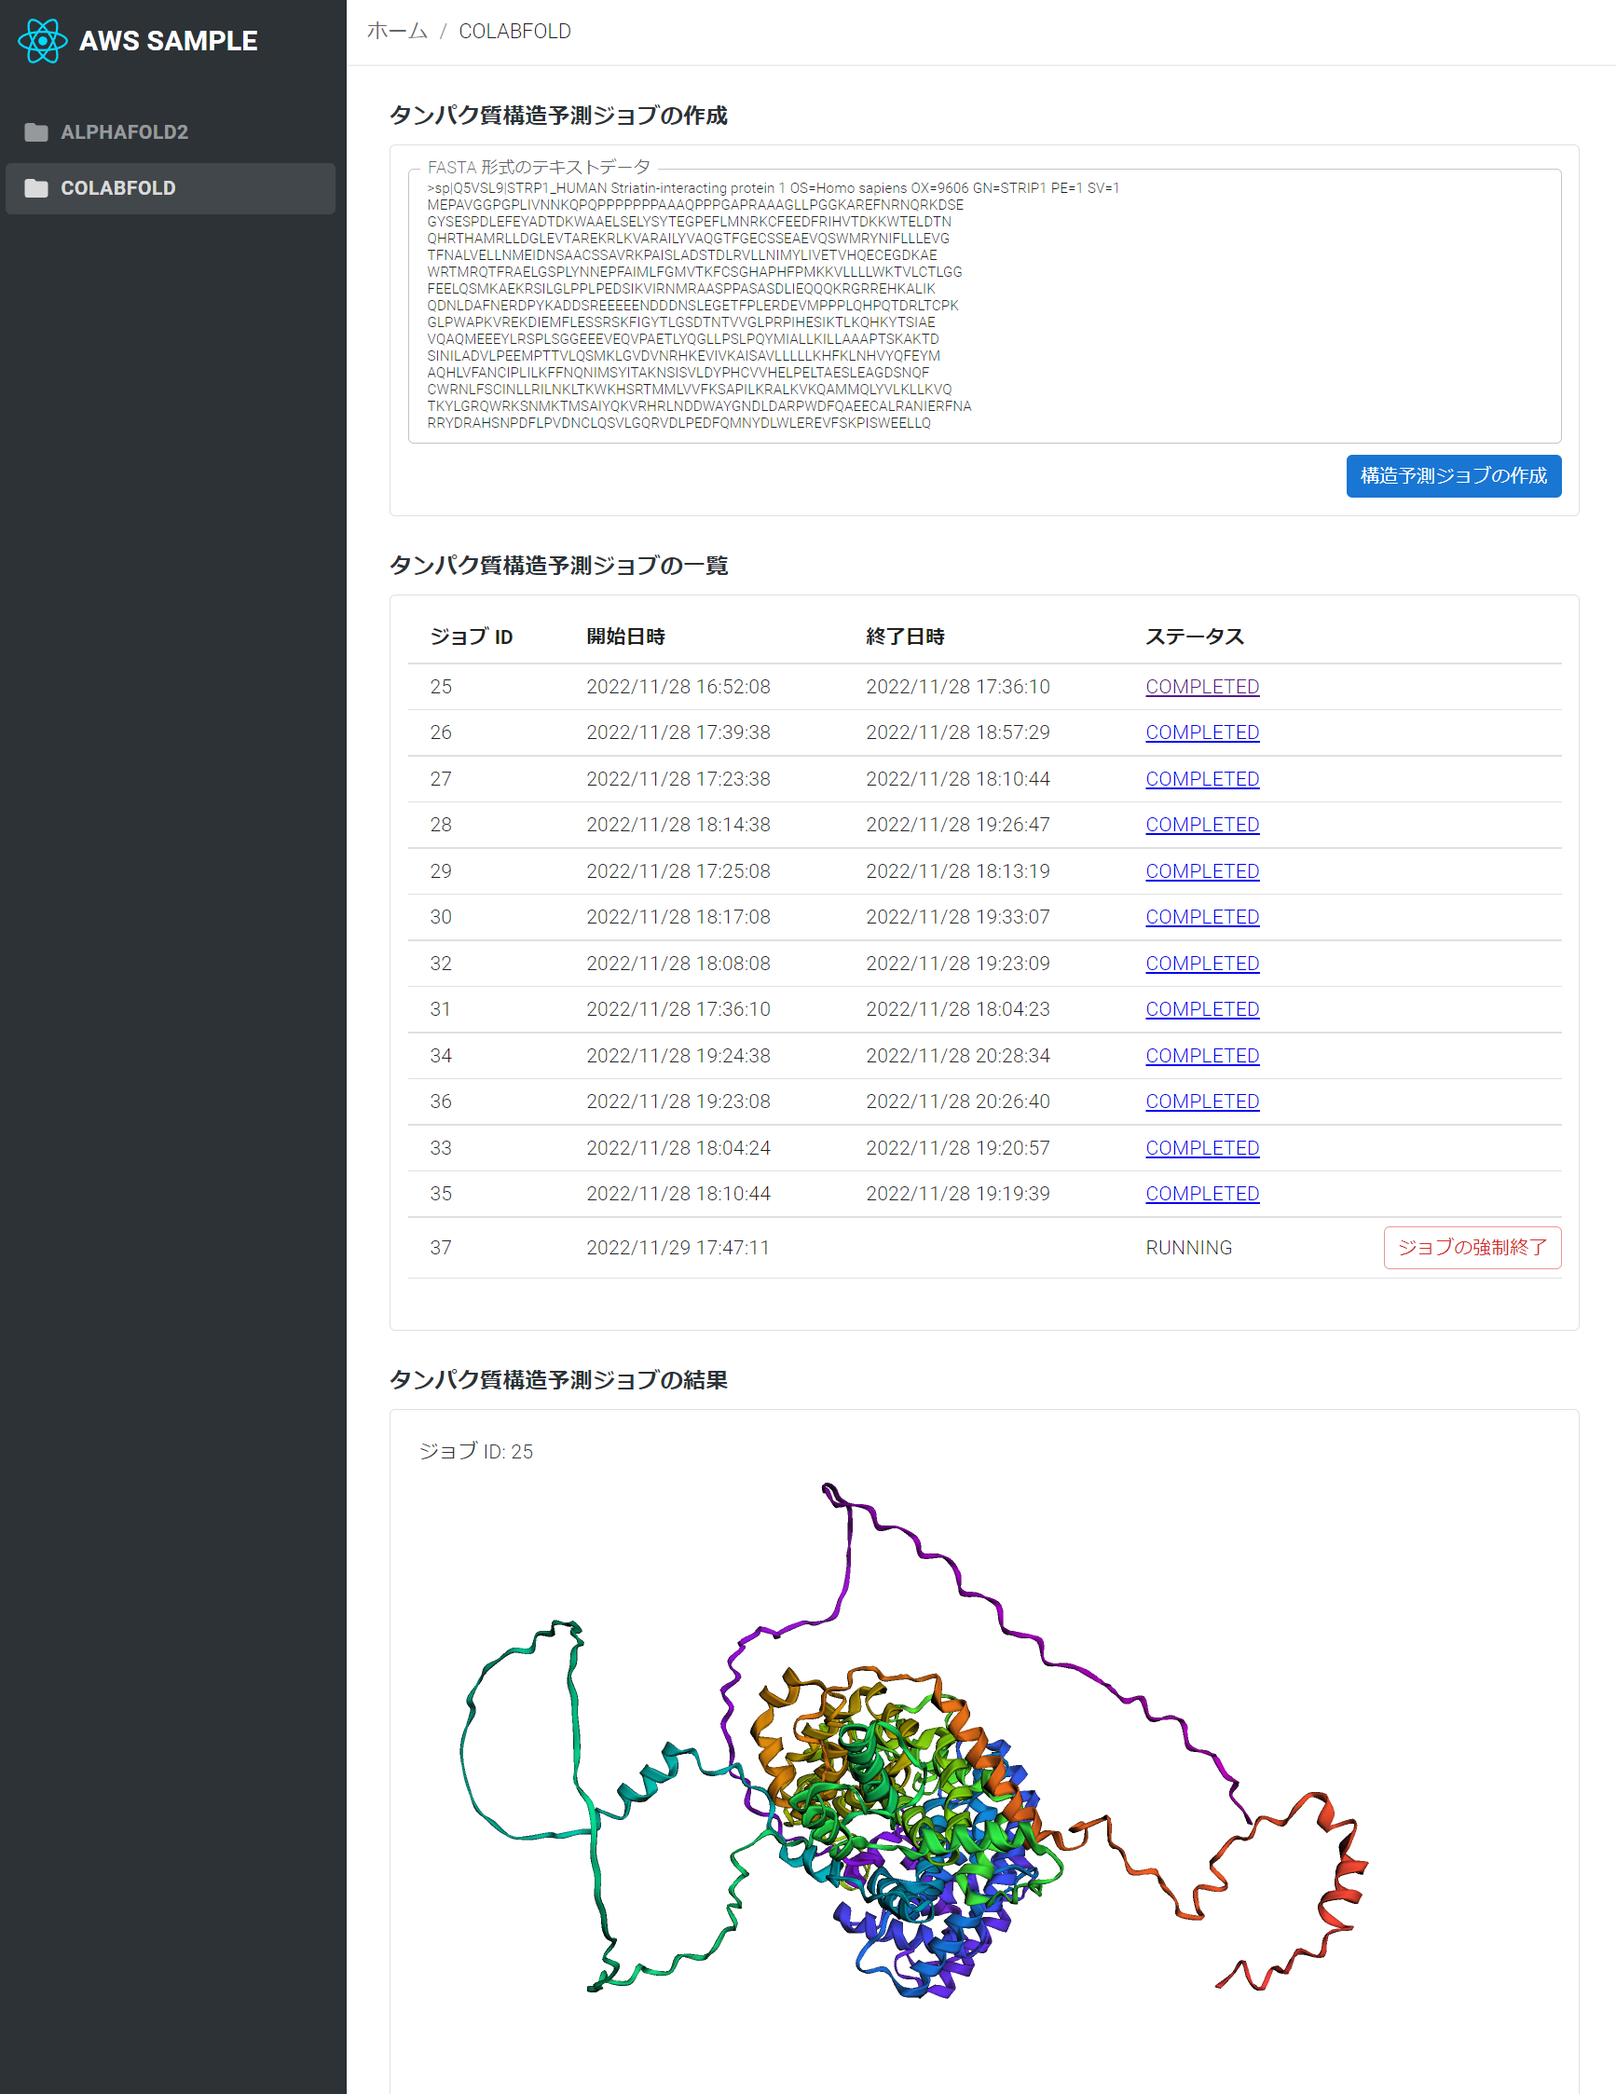
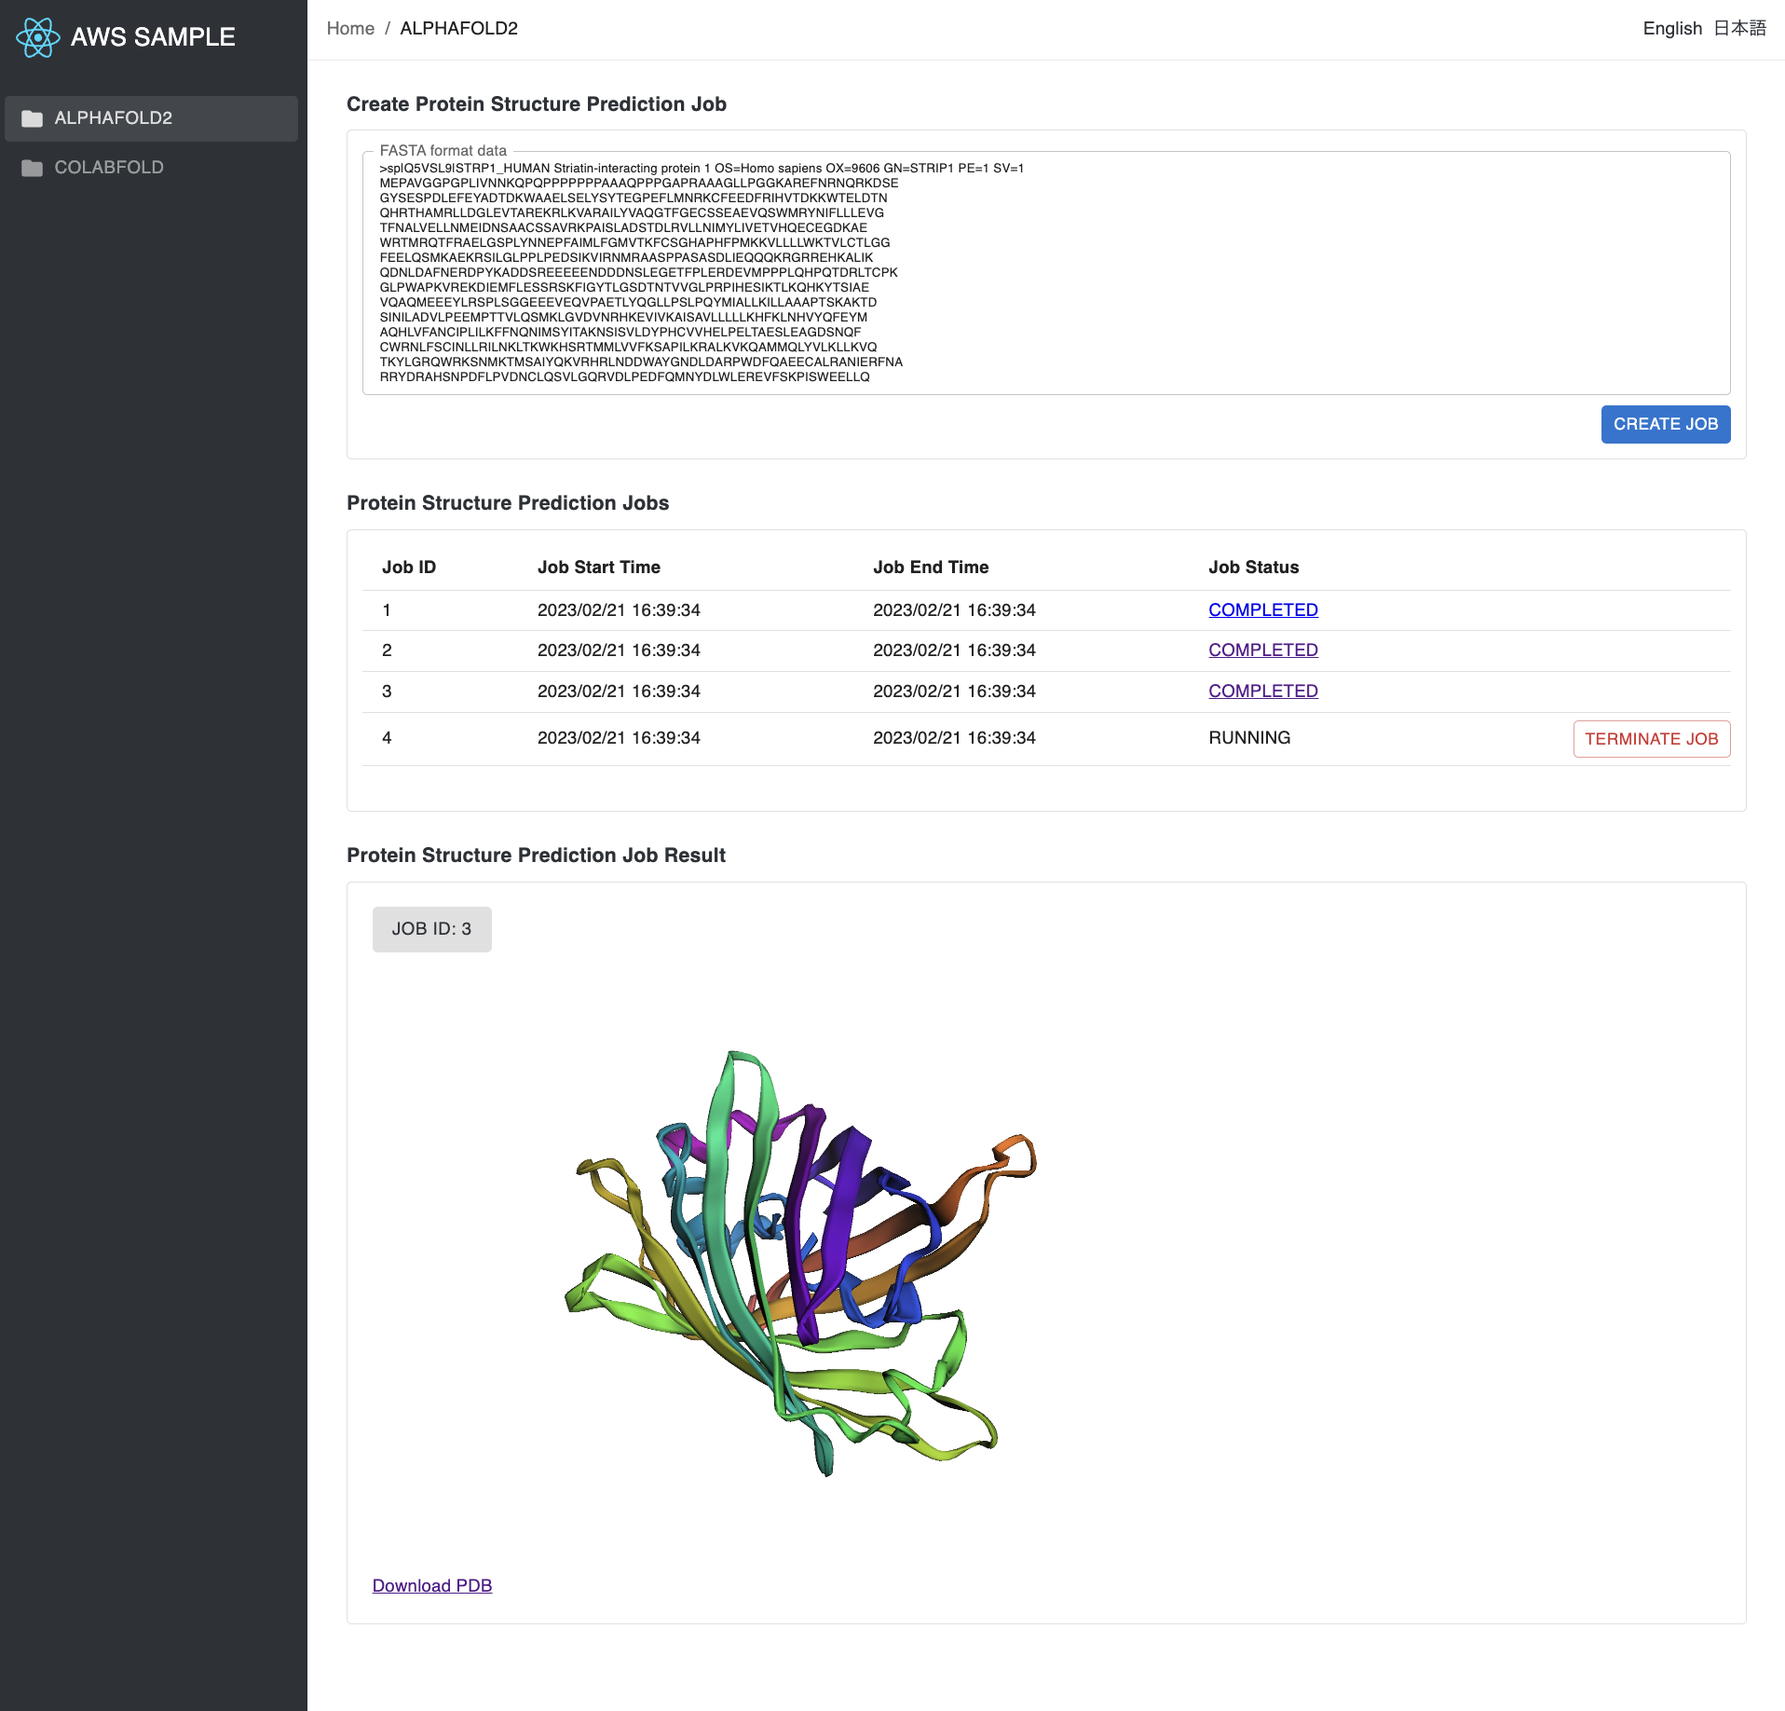
support i18n

diff --git a/app/src/pages/job_manager.tsx b/app/src/pages/job_manager.tsx
@@ -22,8 +22,10 @@ import {
   Grid
 } from '@mui/material'
 import { Help as HelpIcon } from '@mui/icons-material/'
-import { Layout, baseColor } from '../components/layout'
+import { Layout, baseColor, baseInvertColor } from '../components/layout'
 import { getJobs, getJob, Job, terminateJob, createJob } from '../lib/fetcher'
+import { useTranslation } from 'react-i18next'
+import '../lib/i18n'
 
 // @ts-ignore
 import * as $3Dmol from '3dmol/build/3Dmol-nojquery.js'
@@ -50,6 +52,7 @@ export function JobManager({ type }: { type: string }) {
   const [fasta, setFasta] = useState(defaultFasta)
   const pdbViewer = useRef(null)
   const navigate = useNavigate()
+  const { t, i18n } = useTranslation('ns1')
   const { env } = useEnv()
   const { data: jobs, mutate } = useSWR(`${env?.apiEndpoint}/${type}/jobs`, getJobs, {
     revalidateOnFocus: false,
@@ -105,7 +108,7 @@ export function JobManager({ type }: { type: string }) {
           <Box sx={{ ml: 2 }}>
             <Breadcrumbs sx={{ fontSize: '0.9em' }}>
               <Link underline="hover" color="inherit" onClick={() => navigate('/')} sx={{ cursor: 'pointer' }}>
-                ホーム
+                {t('Home')}
               </Link>
               <Link underline="hover" color="text.primary" href="/items">
                 {type.toUpperCase()}
@@ -114,17 +117,18 @@ export function JobManager({ type }: { type: string }) {
           </Box>
         )
       }}
+      changeLanguage={i18n.changeLanguage}
     >
       <Box sx={{ mb: 1 }}>
         <Typography variant="body1" sx={{ fontWeight: 600, color: baseColor() }}>
-          タンパク質構造予測ジョブの作成
+          {t('Job Create View Title')}
         </Typography>
       </Box>
 
       <Paper variant="outlined" sx={{ p: 1.5 }}>
         <Box>
           <TextField
-            label="FASTA 形式のテキストデータ"
+            label={t('Fasta Data Help Message')}
             spellCheck={false}
             multiline
             size="small"
@@ -135,7 +139,7 @@ export function JobManager({ type }: { type: string }) {
             sx={{ mt: 0.5, width: '100%' }}
           />
           <Grid container direction="row" justifyContent="flex-end" alignItems="center">
-            <Tooltip title="構造予測ジョブを作成します（ジョブの投入完了まで数十秒かかります）">
+            <Tooltip title={t('Create Job Help Message')}>
               <Button
                 variant="contained"
                 size="small"
@@ -146,7 +150,7 @@ export function JobManager({ type }: { type: string }) {
                   '&:hover': { boxShadow: 'none' }
                 }}
               >
-                構造予測ジョブの作成
+                {t('Create Job Button Title')}
               </Button>
             </Tooltip>
           </Grid>
@@ -155,7 +159,7 @@ export function JobManager({ type }: { type: string }) {
 
       <Box sx={{ mb: 1, mt: 3 }}>
         <Typography variant="body1" sx={{ fontWeight: 600, color: baseColor() }}>
-          タンパク質構造予測ジョブの一覧
+          {t('Job List View Title')}
         </Typography>
       </Box>
 
@@ -164,10 +168,10 @@ export function JobManager({ type }: { type: string }) {
           <Table size="small" sx={{}}>
             <TableHead sx={{ '& .MuiTableCell-head': { fontWeight: 600 } }}>
               <TableRow>
-                <TableCell>ジョブ ID</TableCell>
-                <TableCell>開始日時</TableCell>
-                <TableCell>終了日時</TableCell>
-                <TableCell>ステータス</TableCell>
+                <TableCell>{t('Job ID')}</TableCell>
+                <TableCell>{t('Job Start Time')}</TableCell>
+                <TableCell>{t('Job End Time')}</TableCell>
+                <TableCell>{t('Job Status')}</TableCell>
                 <TableCell align="right"></TableCell>
               </TableRow>
             </TableHead>
@@ -205,7 +209,7 @@ export function JobManager({ type }: { type: string }) {
                               '&:hover': { boxShadow: 'none' }
                             }}
                           >
-                            ジョブの強制終了
+                            {t('Terminate Job Button Title')}
                           </Button>
                         ) : (
                           <></>
@@ -226,7 +230,7 @@ export function JobManager({ type }: { type: string }) {
 
       <Box sx={{ mb: 1, mt: 3 }}>
         <Typography variant="body1" sx={{ fontWeight: 600, color: baseColor() }}>
-          タンパク質構造予測ジョブの結果
+          {t('Job Result View Title')}
         </Typography>
       </Box>
 
@@ -236,15 +240,33 @@ export function JobManager({ type }: { type: string }) {
             {(jobResult && (
               <div>
                 <Typography variant="body2" sx={{ ml: 1, color: baseColor() }}>
-                  ジョブ ID: {jobResult.id}
+                  <Button
+                    disabled
+                    variant="contained"
+                    sx={{
+                      '&.Mui-disabled': {
+                        color: baseColor()
+                      }
+                    }}
+                  >
+                    {t('Job ID')}: {jobResult.id}
+                  </Button>
                 </Typography>
+
                 {(jobResult.pdb_url && (
-                  <div ref={pdbViewer} style={{ height: 500, width: 700, position: 'relative' }}></div>
+                  <>
+                    <div ref={pdbViewer} style={{ height: 500, width: 700, position: 'relative' }}></div>
+                    <Typography variant="body2" sx={{ ml: 1, color: baseColor() }}>
+                      <a href={jobResult.pdb_url} download>
+                        {t('Download PDB')}
+                      </a>
+                    </Typography>
+                  </>
                 )) || (
                   <Grid container direction="row" justifyContent="flex-start" alignItems="center" sx={{ mt: 2, ml: 2 }}>
                     <HelpIcon fontSize="small" sx={{ color: baseColor(0.7) }}></HelpIcon>
                     <Typography variant="body2" sx={{ ml: 0.5 }}>
-                      PDB ファイルが見つかりませんでした。Colabfold の場合は CPU ジョブを選択してください。
+                      {t('Not Found PDB')}
                     </Typography>
                   </Grid>
                 )}
@@ -253,7 +275,7 @@ export function JobManager({ type }: { type: string }) {
               <Grid container direction="row" justifyContent="flex-start" alignItems="center">
                 <HelpIcon fontSize="small" sx={{ color: baseColor(0.7) }}></HelpIcon>
                 <Typography variant="body2" sx={{ ml: 0.5 }}>
-                  ステータスが COMPLETED のジョブをクリックすると解析結果を表示します。
+                  {t('Job Result View Help Message')}
                 </Typography>
               </Grid>
             )}

diff --git a/app/src/components/layout.tsx b/app/src/components/layout.tsx
@@ -1,6 +1,6 @@
 import { useLocation, Link } from 'react-router-dom'
 import { ReactNode } from 'react'
-import { Drawer, Box, AppBar, List, Typography, Grid, Container, Paper, Button } from '@mui/material'
+import { Drawer, Box, AppBar, List, Typography, Grid, Container, Paper, Button, Link as MUILink } from '@mui/material'
 import { Folder as FolderIcon, ExitToApp as ExitToAppIcon } from '@mui/icons-material/'
 import reactLogo from '../assets/react.svg'
 
@@ -24,7 +24,15 @@ const sideMenuButtonStyle = {
   }
 }
 
-export const Layout = ({ children, appBarRender }: { children: ReactNode; appBarRender: () => ReactNode }) => {
+export const Layout = ({
+  children,
+  appBarRender,
+  changeLanguage
+}: {
+  children: ReactNode
+  appBarRender: () => ReactNode
+  changeLanguage: (lng: string) => void
+}) => {
   const location = useLocation()
 
   const sideBarItems = [
@@ -34,7 +42,7 @@ export const Layout = ({ children, appBarRender }: { children: ReactNode; appBar
 
   return (
     <>
-      {/* ヘッダー */}
+      {/* Header */}
       <AppBar
         sx={{
           width: `calc(100% - ${SIDE_BAR_WIDTH}px)`,
@@ -45,12 +53,40 @@ export const Layout = ({ children, appBarRender }: { children: ReactNode; appBar
           boxShadow: 'none'
         }}
       >
-        <Grid container direction="row" justifyContent="flex-start" alignItems="center">
+        <Grid container direction="row" justifyContent="space-between" alignItems="center">
           <Grid item>{appBarRender()}</Grid>
+          <Grid item pr={2}>
+            <Grid container direction="row" justifyContent="space-between" alignItems="center" spacing={1}>
+              <Grid item>
+                <Typography sx={{ fontSize: '0.9em' }}>
+                  <MUILink
+                    underline="hover"
+                    color={baseColor()}
+                    onClick={() => changeLanguage('en')}
+                    sx={{ cursor: 'pointer' }}
+                  >
+                    English
+                  </MUILink>
+                </Typography>
+              </Grid>
+              <Grid item>
+                <Typography sx={{ fontSize: '0.9em' }}>
+                  <MUILink
+                    underline="hover"
+                    color={baseColor()}
+                    onClick={() => changeLanguage('ja')}
+                    sx={{ cursor: 'pointer' }}
+                  >
+                    日本語
+                  </MUILink>
+                </Typography>
+              </Grid>
+            </Grid>
+          </Grid>
         </Grid>
       </AppBar>
 
-      {/* サイドバー */}
+      {/* SideBar */}
       <Drawer
         variant="permanent"
         sx={{
@@ -60,7 +96,7 @@ export const Layout = ({ children, appBarRender }: { children: ReactNode; appBar
           }
         }}
       >
-        {/* サービスアイコン */}
+        {/* SideBar > ServiceIcon */}
         <Grid container direction="row" padding={2}>
           <Grid item component={Link} to="/">
             <img src={reactLogo} />
@@ -72,7 +108,7 @@ export const Layout = ({ children, appBarRender }: { children: ReactNode; appBar
           </Grid>
         </Grid>
 
-        {/* サイドバーのメニューリスト */}
+        {/* SideBar > MenuList */}
         <List component="nav">
           {sideBarItems.map((sideBarItem) => {
             return (
@@ -94,7 +130,7 @@ export const Layout = ({ children, appBarRender }: { children: ReactNode; appBar
         </List>
       </Drawer>
 
-      {/* メインコンテンツ */}
+      {/* MainContent */}
       <Box
         component="main"
         sx={{

diff --git a/app/src/lib/i18n.ts b/app/src/lib/i18n.ts
@@ -1,0 +1,54 @@
+import i18n from 'i18next'
+import { initReactI18next } from 'react-i18next'
+
+export const resources = {
+  en: {
+    ns1: {
+      Home: 'Home',
+      'No Content': 'No content to show on this page.',
+      'Job Create View Title': 'Create Protein Structure Prediction Job',
+      'Job List View Title': 'Protein Structure Prediction Jobs',
+      'Job Result View Title': 'Protein Structure Prediction Job Result',
+      'Create Job Button Title': 'Create Job',
+      'Terminate Job Button Title': 'Terminate Job',
+      'Download PDB': 'Download PDB',
+      'Job ID': 'Job ID',
+      'Job Start Time': 'Job Start Time',
+      'Job End Time': 'Job End Time',
+      'Job Status': 'Job Status',
+      'Not Found PDB': 'PDB Not Found. For Colabfold, select CPU job.',
+      'Job Result View Help Message': 'To show the prediction result, click on a job with COMPLETED status.',
+      'Fasta Data Help Message': 'FASTA format data',
+      'Create Job Help Message': 'Create a protein structure prediction job. takes 10s to complete job creation'
+    }
+  },
+  ja: {
+    ns1: {
+      Home: 'ホーム',
+      'No Content': 'この画面に表示するコンテンツはありません。',
+      'Job Create View Title': 'タンパク質構造予測ジョブの作成',
+      'Job List View Title': 'タンパク質構造予測ジョブの一覧',
+      'Job Result View Title': 'タンパク質構造予測ジョブの結果',
+      'Create Job Button Title': '構造予測ジョブの作成',
+      'Terminate Job Button Title': 'ジョブの強制終了',
+      'Download PDB': 'PDB ファイルのダウンロード',
+      'Job ID': 'ジョブ ID',
+      'Job Start Time': '開始日時',
+      'Job End Time': '終了日時',
+      'Job Status': 'ステータス',
+      'Not Found PDB': 'PDB ファイルが見つかりませんでした。Colabfold の場合は CPU ジョブを選択してください。',
+      'Job Result View Help Message': 'ステータスが COMPLETED のジョブをクリックすると解析結果を表示します。',
+      'Fasta Data Help Message': 'FASTA 形式のテキストデータ',
+      'Create Job Help Message': '構造予測ジョブを作成します（ジョブの投入完了まで数十秒かかります）'
+    }
+  }
+} as const
+
+i18n.use(initReactI18next).init({
+  lng: 'en',
+  ns: ['ns1'],
+  defaultNS: 'ns1',
+  resources
+})
+
+export default i18n

diff --git a/app/src/pages/home.tsx b/app/src/pages/home.tsx
@@ -2,9 +2,12 @@ import { useEffect } from 'react'
 import { useNavigate } from 'react-router-dom'
 import { Layout } from '../components/layout'
 import { Link, Breadcrumbs, Box } from '@mui/material'
+import { useTranslation } from 'react-i18next'
+import '../lib/i18n'
 
 export const Home = () => {
   const navigate = useNavigate()
+  const { t, i18n } = useTranslation('ns1')
 
   useEffect(() => {
     navigate('/alphafold2')
@@ -23,8 +26,9 @@ export const Home = () => {
           </Box>
         )
       }}
+      changeLanguage={i18n.changeLanguage}
     >
-      <>この画面に表示するコンテンツはありません。</>
+      <>{t('No Content')}</>
     </Layout>
   )
 }

diff --git a/app/src/@types/i18next.d.ts b/app/src/@types/i18next.d.ts
@@ -1,0 +1,8 @@
+import { resources, defaultNS } from '../lib/i18n'
+
+declare module 'i18next' {
+  interface CustomTypeOptions {
+    defaultNS: typeof defaultNS
+    resources: typeof resources['en']
+  }
+}

diff --git a/lambda/jobs.py b/lambda/jobs.py
@@ -123,10 +123,17 @@ def get_job(target, job_id):
             Prefix=f"{target}/job/{job_id}/output/",
         )["Contents"]
 
-        keys = [ i["Key"] for i in list(filter(lambda o: re.search("\\.pdb$", o["Key"]), objects)) ]
+        keys = [
+            i["Key"]
+            for i in list(filter(lambda o: re.search("\\.pdb$", o["Key"]), objects))
+        ]
 
         # choose the prediction with highest confidence
-        params = {"Bucket": s3_bucket_name, "Key": sorted(keys)[0]}
+        params = {
+            "Bucket": s3_bucket_name,
+            "Key": sorted(keys)[0],
+            "ResponseContentDisposition": "attachment",
+        }
 
         s3.head_object(Bucket=params["Bucket"], Key=params["Key"])
         data["pdb_url"] = s3.generate_presigned_url(
